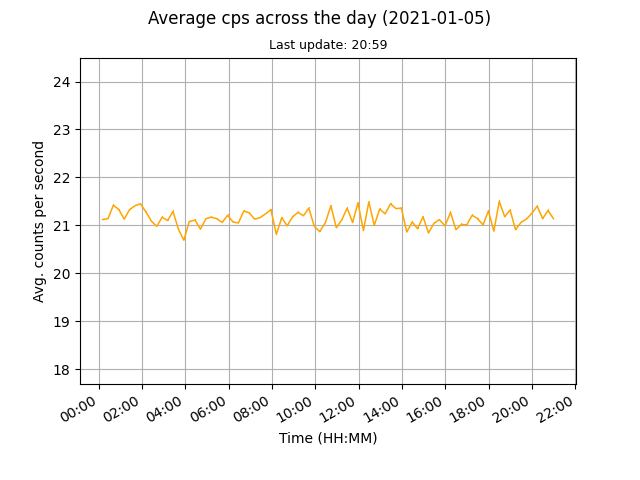
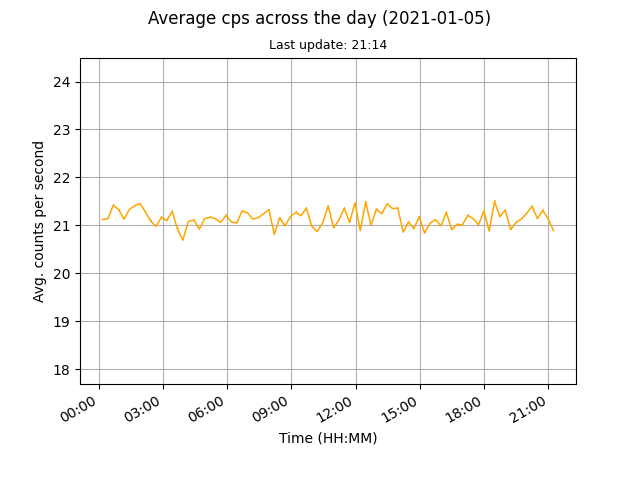
auto data update

Changed region(s): [[0.1875, 0.4062, 0.875, 0.5], [0.1562, 0.8125, 0.9062, 0.875], [0.5625, 0.0625, 0.5938, 0.125]]

diff --git a/docs/index.html b/docs/index.html
@@ -45,8 +45,8 @@
 	
 	<br>
 	
-	<p>Current counts per second (cps): 21.14</p>
-	<p>Last update: 2021-01-05, 20:59</p>
+	<p>Current counts per second (cps): 20.89</p>
+	<p>Last update: 2021-01-05, 21:14</p>
 
 	<p><a href="images/monthly.png"><img src="images/monthly.png" alt="Mothly avg cps data"></a><a href="images/daily.png"><img src="images/daily.png" alt="Daily avg cps data"></a></p>
 	
